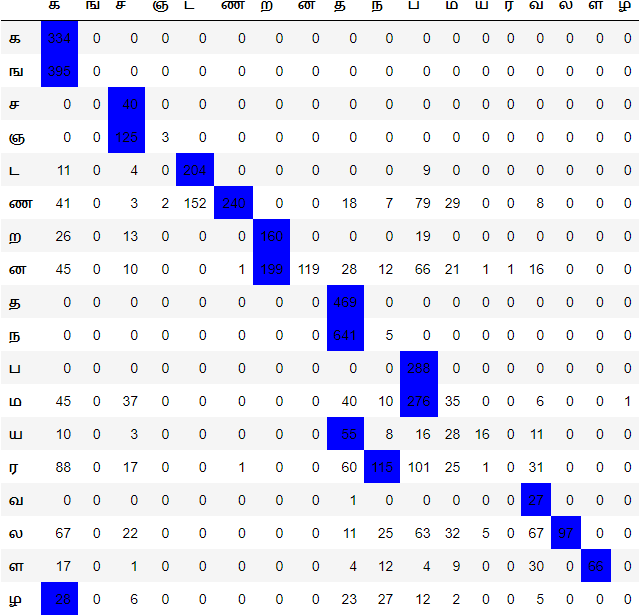
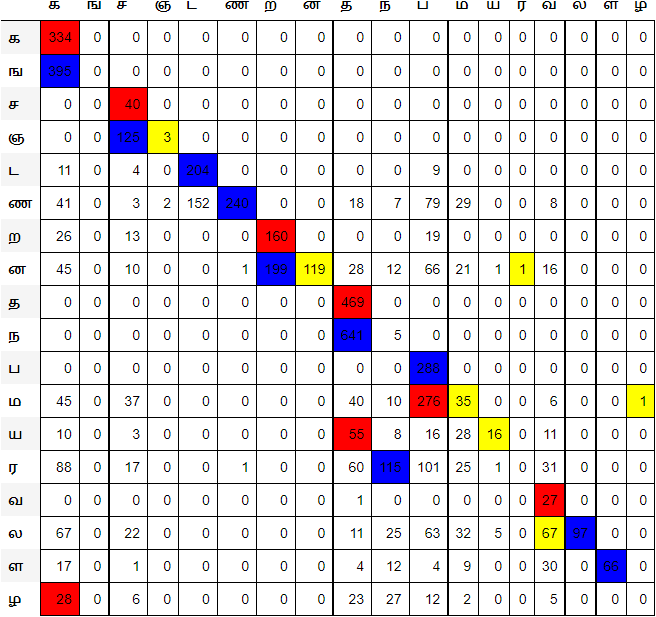
max on both axes
first cut working version of different colours for max per nilaiyelutthu, varumezhutthu and both

diff --git a/mayal.py b/mayal.py
@@ -4,10 +4,34 @@ from nltk.corpus import PlaintextCorpusReader
 import pandas as pd
 import dataframe_image as dfi
 
-def highlight_max_both_axes(s):
-    pass
+def highlight_max_both_axes(s: pd.DataFrame):
+    '''
+    Assign a background colour showing rowwise and columnwise maxes.
+    '''
+    ret = pd.DataFrame(0, index=nilai, columns=varu)
+    rmax = s.max(axis=1)
+    cmax = s.max()
+    for i, n in enumerate(nilai):
+        for j, v in enumerate(varu):
+            if s[v][n] == rmax[n] and s[v][n] == cmax[v]:
+                color = "blue"
+            elif s[v][n] == rmax[n]:
+                color = "red"
+            elif s[v][n] == cmax[v] and s[v][n] > 0:
+                color = "yellow"
+            else:
+                color = "white"
+            ret.iloc[i, j] = "background-color: %s" % color
+    return ret
 
-root = ".\corpora\\"
+def get_css(s: pd.Series):
+    '''
+    pick css value for a series
+    '''
+    ret = [css.loc[i, s.name] for i in s.index]
+    return ret
+
+root = ".\\corpora\\"
 files = PlaintextCorpusReader(root, ".*")
 #raw = files.raw("pathittrupathu.txt")
 sents = []
@@ -18,46 +42,30 @@ with open(root + "pathittrupathu.txt", encoding="utf8") as input:
     for sent in input.readlines():
         sent = re.sub(dropper, "", sent)
         sent = re.sub("\s+", " ", re.sub(punct, " ", sent)).replace("஡஢", "ரி")
-        #if sent != '' and re.findall("\d", sent) == []:
         if sent.count(" ") > 2: # at least two cheers
             sents.append(sent)
 
 pulli = '\u0BCD'
 con = ['க','ங','ச','ஞ','ட', 'ண','ற','ன','த','ந','ப','ம','ய','ர','வ','ல', 'ள','ழ']
 cons = ['க்', 'ங்', 'ச்' , 'ஞ்', 'ட்', 'ண்', 'த்', 'ந்', 'ப்', 'ம்', 'ய்', 'ர்', 'வ்', 'ல்', 'ள்', 'ழ்', 'ற்','ன்']
-#for con1 in con:
-#    for con2 in con:
-#        for sent in sents:
-#            gem = con1 + pulli + con2
-#            for word in sent.split():
-#                #print(gem)
-#                if gem in word:
-#                    print(word)
+
 cfd = nltk.ConditionalFreqDist((con1, con2)
 for con1 in con
 for con2 in con
 for sent in sents
 for word in sent.split()
 if con1 + pulli + con2 in word)
-# cfd.tabulate()
-#cfd.plot()
-print()
+
 nilai = cfd.keys()
 varu = cfd.keys()
 
 frame = pd.DataFrame(0, index=nilai, columns=varu)
 
-'''
-for i, c1 in enumerate(nilai):
-    for j, c2 in enumerate(varu):
-        print(c1)
-        frame[i][j] = cfd.get(c1)
-'''
 for c1, v in cfd.items():
     for c2 in v.keys():
         frame[c2][c1] = v[c2]
 
-print(frame)
-# save_df_as_image(frame, "pathittrupathu.png")
-dfi.export(frame.style.highlight_max(axis=1, color='blue'), "pathittrupathu.png")
-# frame.style.apply(highlight_max_both_axes)
+
+css = highlight_max_both_axes(frame)
+
+dfi.export(frame.style.set_properties(**{'border': '1.3px solid black', 'color': 'black'}).apply(get_css), "pathittrupathu.png")
